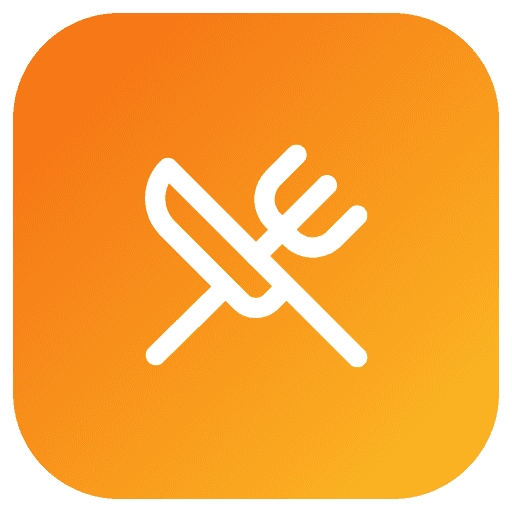
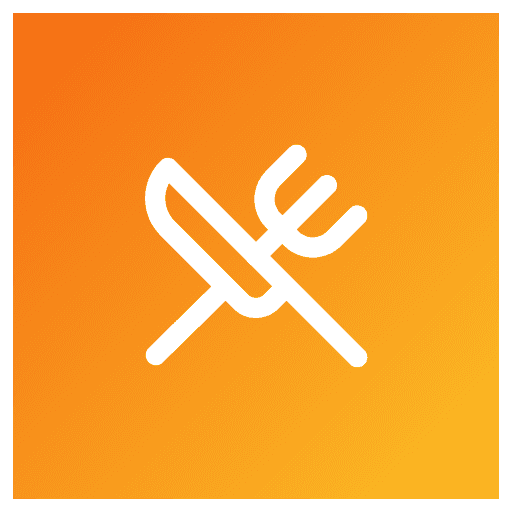
アイコン修正

diff --git a/pwa-assets.config.js b/pwa-assets.config.js
@@ -1,0 +1,32 @@
+// PWA アイコン生成設定（npm run pwa:icons から使用）。
+//
+// minimal-2023 preset の apple/maskable はデフォルトで padding: 0.3 + background: 'white'
+// になっており、iOS ホーム画面 / Android アダプティブアイコンで「アイコン外側に白い余白」が
+// 出る原因になっていた。padding を 0 にし、背景もブランドカラーで埋めることで
+// 白フチが消えるようにする。
+//
+// favicon.svg は `rx` を外してフルブリードのグラデーションにしたので、padding 0 でも
+// 端まで色が回り、iOS / Android が自前で角丸マスクを当てて綺麗に表示される。
+
+const brand = '#f56a14'
+
+export default {
+  headLinkOptions: { preset: '2023' },
+  preset: {
+    transparent: {
+      sizes: [64, 192, 512],
+      favicons: [[48, 'favicon.ico']],
+    },
+    maskable: {
+      sizes: [512],
+      padding: 0,
+      resizeOptions: { background: brand, fit: 'contain' },
+    },
+    apple: {
+      sizes: [180],
+      padding: 0,
+      resizeOptions: { background: brand, fit: 'contain' },
+    },
+  },
+  images: ['public/favicon.svg'],
+}
